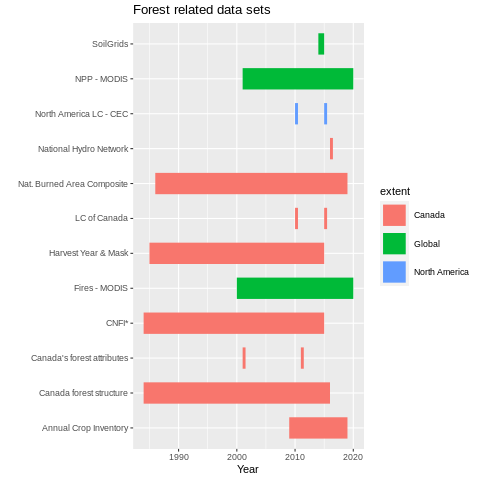
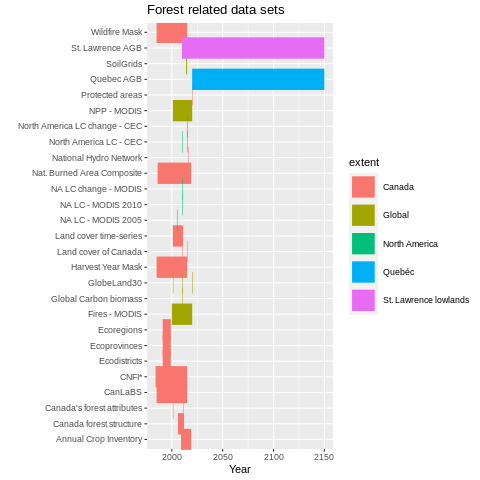
Updated files

diff --git a/README.md b/README.md
@@ -5,34 +5,63 @@ Here is a list of potentially useful data sources for analyzing forest (and wetl
 
 |author|short_name|date_start|date_end|format|extent|potential_uses| url_data|url_paper|
 |-----|-----|-----|-----|-----|-----|-----|-----|-----|
-|WWF|GLWD (lakes and wetlands)|2004|2004|vector|Global||[data link](https://www.worldwildlife.org/publications/global-lakes-and-wetlands-database-large-lake-polygons-level-1)||
-|WWF|GLWD (lakes and wetlands)|2004|2004|vector|Global||[data link](https://www.worldwildlife.org/publications/global-lakes-and-wetlands-database-small-lake-polygons-level-2)||
-|WWF|GLWD (lakes and wetlands)|2004|2004|vector|Global||[data link](https://www.worldwildlife.org/publications/global-lakes-and-wetlands-database-lakes-and-wetlands-grid-level-3)||
 |CEC|North America LC - CEC|2015|2015|raster|North America||[data link]( http://www.cec.org/files/atlas)||
 |CEC|North America LC - CEC|2010|2010|raster|North America||[data link]( http://www.cec.org/files/atlas)||
-|StatsCan|Agricultural Regions|2016|2016|vector|Canada||[data link](https://www12.statcan.gc.ca/census-recensement/2011/geo/bound-limit/bound-limit-2016-eng.cfm)||
-|StatsCan|Economic Regions|2016|2016|vector|Canada||[data link](https://www12.statcan.gc.ca/census-recensement/2011/geo/bound-limit/bound-limit-2016-eng.cfm)||
-|StatsCan|Province/Territory|2016|2016|vector|Canada||[data link](https://www12.statcan.gc.ca/census-recensement/2011/geo/bound-limit/bound-limit-2016-eng.cfm)||
-|Open Canada|National Hydro Network|2016|2016|vector|Canada||[data link](https://open.canada.ca/data/en/dataset/a4b190fe-e090-4e6d-881e-b87956c07977)||
-|Natural Resources Canada |LC of Canada|2010|2010|raster|Canada||[data link](https://open.canada.ca/data/en/dataset/c688b87f-e85f-4842-b0e1-a8f79ebf1133)||
-|Natural Resources Canada |LC of Canada|2015|2015|raster|Canada||[data link](https://open.canada.ca/data/en/dataset/4e615eae-b90c-420b-adee-2ca35896caf6)||
+|Natural Resources Canada |Land cover of Canada|2010|2010|raster|Canada||[data link](https://open.canada.ca/data/en/dataset/c688b87f-e85f-4842-b0e1-a8f79ebf1133)||
+|Natural Resources Canada |Land cover of Canada|2015|2015|raster|Canada||[data link](https://open.canada.ca/data/en/dataset/4e615eae-b90c-420b-adee-2ca35896caf6)||
 |Agriculture and Agri-Food Canada |Annual Crop Inventory|2009|2019|raster|Canada||[data link](https://www.agr.gc.ca/atlas/data_donnees/agr/annualCropInventory/tif/2019/)||
-|Natural Resources Canada|Canada's forest attributes|2001|2001|raster|Canada||[data link](https://open.canada.ca/data/en/dataset/ec9e2659-1c29-4ddb-87a2-6aced147a990)|[paper link](https://cdnsciencepub.com/doi/10.1139/cjfr-2017-0184)|
+|Natural Resources Canada|Canada's forest attributes|2001|2001|raster|Canada||[data link](https://ftp.maps.canada.ca/pub/nrcan_rncan/Forests_Foret/canada-forests-attributes_attributs-forests-canada/)|[paper link](https://cdnsciencepub.com/doi/10.1139/cjfr-2017-0184)|
 |Natural Resources Canada|Canada's forest attributes|2011|2011|raster|Canada||[data link](https://open.canada.ca/data/en/dataset/ec9e2659-1c29-4ddb-87a2-6aced147a990)|[paper link](https://cdnsciencepub.com/doi/10.1139/cjfr-2017-0184)|
 |Environment and Climate Change Canada|Canadian Wetland Inventory|2007|2007|vector|Quebéc||[data link](https://open.canada.ca/data/en/dataset/2381fe32-653c-431b-b520-a85b2396e377)||
 |Environment and Climate Change Canada|Canadian Wetland Inventory|2007|2007|vector|Quebéc||[data link](https://open.canada.ca/data/en/dataset/09f46d71-6feb-4f8f-8eb5-a58a58b06af5)||
-|Mastasci et al. 2017|Canada forest structure|1984|2016|raster|Canada|||[paper link](https://www.sciencedirect.com/science/article/pii/S0034425718303572)|
+|Mastasci et al. (2017)|Canada forest structure|2006|2012|raster|Canada|||[paper link](https://www.sciencedirect.com/science/article/pii/S0034425718303572)|
 |NASA - NEO|Fires - MODIS|2000|2020|raster|Global||[data link](https://earthobservatory.nasa.gov/global-maps/MOD14A1_M_FIRE)||
 |National Forest Inventory System|CNFI|||vector|Canada||||
 |Hall et al. (2020)|Nat. Burned Area Composite|1986|2019|raster|Canada|||[paper link](https://www.publish.csiro.au/wf/WF19201)|
 |Geological Survey of Canada|Peatlands|2011|2011.5|vector|Canada||[data link](https://geoscan.nrcan.gc.ca/starweb/geoscan/servlet.starweb?path=geoscan/fulle.web&search1=R=288786)||
 |NASA - NEO|NPP - MODIS|2001|2020|raster|Global||[data link](https://lpdaac.usgs.gov/products/mod17a3hv006/)||
-|Hengl et al. 2017|SoilGrids|2014|2014.5|raster|Global||||
+|Hengl et al. (2017)|SoilGrids|2014|2014.5|raster|Global||[data link](https://soilgrids.org/)||
 |FLUXNET Canada|FLUXNET Canada|1993|2014|vector|Canada|Validate satellite data|[data link](https://daac.ornl.gov/cgi-bin/dsviewer.pl?ds_id=1335)|[paper link](https://daac.ornl.gov/FLUXNET/guides/FLUXNET_Canada.html)|
 |National Forest Inventory System|CNFI*|1984|2015|raster|Canada||[data link](https://opendata.nfis.org/mapserver/nfis-change_eng.html)||
-|Hermosilla et al. 2016|Harvest Year Mask|1985|2015|raster|Canada|STSMs|[data link](https://opendata.nfis.org/mapserver/nfis-change_eng.html)|[paper link](https://www.tandfonline.com/doi/full/10.1080/17538947.2016.1187673)|
-|Wang et al. 2016|ClimateNA|1980|2021|raster|North America|Account for climate change|[data link](https://sites.ualberta.ca/~ahamann/data/climatena.html)|[paper link](https://journals.plos.org/plosone/article?id=10.1371/journal.pone.0156720)|
-|Hermosilla et al. 2016|Wildfire Mask|1985|2015|raster|Canada|STSMs|[data link](https://www.tandfonline.com/doi/full/10.1080/17538947.2016.1187673)||
+|Hermosilla et al. (2016)|Harvest Year Mask|1985|2015|raster|Canada|STSMs|[data link](https://opendata.nfis.org/mapserver/nfis-change_eng.html)|[paper link](https://www.tandfonline.com/doi/full/10.1080/17538947.2016.1187673)|
+|Wang et al. (2016)|ClimateNA|1980|2021|raster|North America|Account for climate change|[data link](https://sites.ualberta.ca/~ahamann/data/climatena.html)|[paper link](https://journals.plos.org/plosone/article?id=10.1371/journal.pone.0156720)|
+|Hermosilla et al. (2016)|Wildfire Mask|1985|2015|raster|Canada|STSMs|[data link](https://www.tandfonline.com/doi/full/10.1080/17538947.2016.1187673)||
+|Lehner & Grill (2013) |HydroBASINS|2013|2013|vector|Global||[data link](https://www.hydrosheds.org/page/hydrobasins)|[paper link](https://doi.org/10.1002/hyp.9740)|
+|Lehner & Grill (2013) |HydroRIVERS|2013|2013|vector|Global||[data link](https://www.hydrosheds.org/page/hydrorivers)|[paper link](https://doi.org/10.1002/hyp.9740)|
+|Messager et al. (2016)|HydroLAKES|2016|2016|vector|Global||[data link](https://www.hydrosheds.org/page/hydrolakes)|[paper link](https://www.nature.com/articles/ncomms13603)|
+|Linke et al. (2019)|HydroATLAS|2019|2019|vector|Global||[data link](https://figshare.com/articles/dataset/HydroATLAS_version_1_0/9890531)|[paper link](https://www.nature.com/articles/s41597-019-0300-6)|
+|Dallaire et al. 2018|GloRiC|2018|2018|vector|Global||[data link](https://www.hydrosheds.org/page/gloric)|[paper link](https://iopscience.iop.org/article/10.1088/1748-9326/aad8e9)|
+|Pouliot et al. 2014|Land cover time-series|2001|2011|raster|Canada|||[paper link](https://doi.org/10.1016/j.rse.2013.10.004)|
+|Agriculture and Agri-Food Canada|Ecozones|2013|2013|vector|Canada||[data link](https://open.canada.ca/data/en/dataset/7ad7ea01-eb23-4824-bccc-66adb7c5bdf8)||
+|Agriculture and Agri-Food Canada|Pedon db|2016|2016|vector|Canada||[data link](https://open.canada.ca/data/en/dataset/6457fad6-b6f5-47a3-9bd1-ad14aea4b9e0)||
+|Government of Ontario|Ecozones|2020|2020|0|Ontario||[data link](https://open.canada.ca/data/en/dataset/092130fc-7eed-480e-9dee-f0c564ba11df)||
+|Government of China|GlobeLand30|2001|2001|raster|Global||[data link](http://www.globallandcover.com/Page/EN_sysFrame/dataIntroduce.html?columnID=81&head=references&para=references&type=data)|[paper link](https://www.nature.com/articles/514434c)|
+|Government of China|GlobeLand30|2010|2010|raster|Global||[data link](http://www.globallandcover.com/Page/EN_sysFrame/dataIntroduce.html?columnID=81&head=references&para=references&type=data)|[paper link](https://www.nature.com/articles/514434c)|
+|Government of China|GlobeLand30|2020|2020|raster|Global||[data link](http://www.globallandcover.com/Page/EN_sysFrame/dataIntroduce.html?columnID=81&head=references&para=references&type=data)||
+|Canadian Soil Information Service|NC Soils|||raster|Canada||[data link](https://sis.agr.gc.ca/cansis/interpretations/carbon/northerncircumpolar.zip)|[paper link](https://sis.agr.gc.ca/cansis/interpretations/carbon/index.html)|
+|Canadian Soil Information Service|Peatlands|||raster|Canada||[data link](https://sis.agr.gc.ca/cansis/interpretations/carbon/peatlandofCanada.zip)|[paper link](https://sis.agr.gc.ca/cansis/interpretations/carbon/index.html)|
+|Canadian Soil Information Service|Canada Soil db|||raster|Canada||[data link](https://sis.agr.gc.ca/cansis/interpretations/carbon/soilcarbonofCanada.zip)|[paper link](https://sis.agr.gc.ca/cansis/interpretations/carbon/index.html)|
+|CEC/MODIS|NA LC - MODIS 2005|2005|2005|raster|North America||[data link]( http://www.cec.org/files/atlas)||
+|CEC/MODIS|NA LC - MODIS 2010|2010|2010|raster|North America||[data link]( http://www.cec.org/files/atlas)||
+|CEC/MODIS|NA LC change - MODIS|2010|2010|raster|North America||[data link]( http://www.cec.org/files/atlas)||
+|CEC|North America LC change - CEC|2015|2015|raster|North America||[data link]( http://www.cec.org/files/atlas)||
+|Guindon et al.|CanLaBS|1985|2015|raster|Canada||[data link](https://open.canada.ca/data/en/dataset/b1f61b7e-4ba6-4244-bc79-c1174f2f92cd)|[paper link](https://cdnsciencepub.com/doi/10.1139/cjfr-2020-0353)|
+|Agriculture and Agri-Food Canada |Ecodistricts|1991|1999|vector|Canada||[data link](https://open.canada.ca/data/en/dataset/fe9fd41c-1f67-4bc5-809d-05b62986b26b)||
+|Agriculture and Agri-Food Canada |Ecoprovinces|1991|1999|vector|Canada||[data link](https://open.canada.ca/data/en/dataset/98fa7335-fbfe-4289-9a0e-d6bf3874b424)||
+|Agriculture and Agri-Food Canada |Ecoregions|1991|1999|vector|Canada||[data link](https://open.canada.ca/data/en/dataset/ade80d26-61f5-439e-8966-73b352811fe6)||
+|Government of Canada|Protected areas|2020|2020|vector|Canada||[data link](https://www.canada.ca/en/environment-climate-change/services/national-wildlife-areas/protected-conserved-areas-database.html)||
+|Laroque|St. Lawrence AGB|2010|2150|raster|St. Lawrence lowlands||||
+|Boulanger & Pascual Puigdevall 2021|Quebec AGB|2020|2150|raster|Quebéc||||
+|StatsCan|Census SD|2016|2016|vector|Canada||[data link](https://www12.statcan.gc.ca/census-recensement/2011/geo/bound-limit/bound-limit-2016-eng.cfm)||
+|Spawn et al. 2020|Global Carbon biomass|2010|2010|raster|Global||[data link](https://daac.ornl.gov/cgi-bin/dsviewer.pl?ds_id=1763)|[paper link](https://www.nature.com/articles/s41597-020-0444-4)|
+|WWF|GLWD (lakes and wetlands)|2004|2004|vector|Global||[data link](https://www.worldwildlife.org/publications/global-lakes-and-wetlands-database-large-lake-polygons-level-1)||
+|WWF|GLWD (lakes and wetlands)|2004|2004|vector|Global||[data link](https://www.worldwildlife.org/publications/global-lakes-and-wetlands-database-small-lake-polygons-level-2)||
+|WWF|GLWD (lakes and wetlands)|2004|2004|vector|Global||[data link](https://www.worldwildlife.org/publications/global-lakes-and-wetlands-database-lakes-and-wetlands-grid-level-3)||
+|StatsCan|Agricultural Regions|2016|2016|vector|Canada||[data link](https://www12.statcan.gc.ca/census-recensement/2011/geo/bound-limit/bound-limit-2016-eng.cfm)||
+|StatsCan|Economic Regions|2016|2016|vector|Canada||[data link](https://www12.statcan.gc.ca/census-recensement/2011/geo/bound-limit/bound-limit-2016-eng.cfm)||
+|StatsCan|Province/Territory|2016|2016|vector|Canada||[data link](https://www12.statcan.gc.ca/census-recensement/2011/geo/bound-limit/bound-limit-2016-eng.cfm)||
+|Open Canada|National Hydro Network|2016|2016|vector|Canada||[data link](https://open.canada.ca/data/en/dataset/a4b190fe-e090-4e6d-881e-b87956c07977)||
+
 
 A time-line figure using some of the above entries. R code for this figure is found in the `R_code` folder.
 
